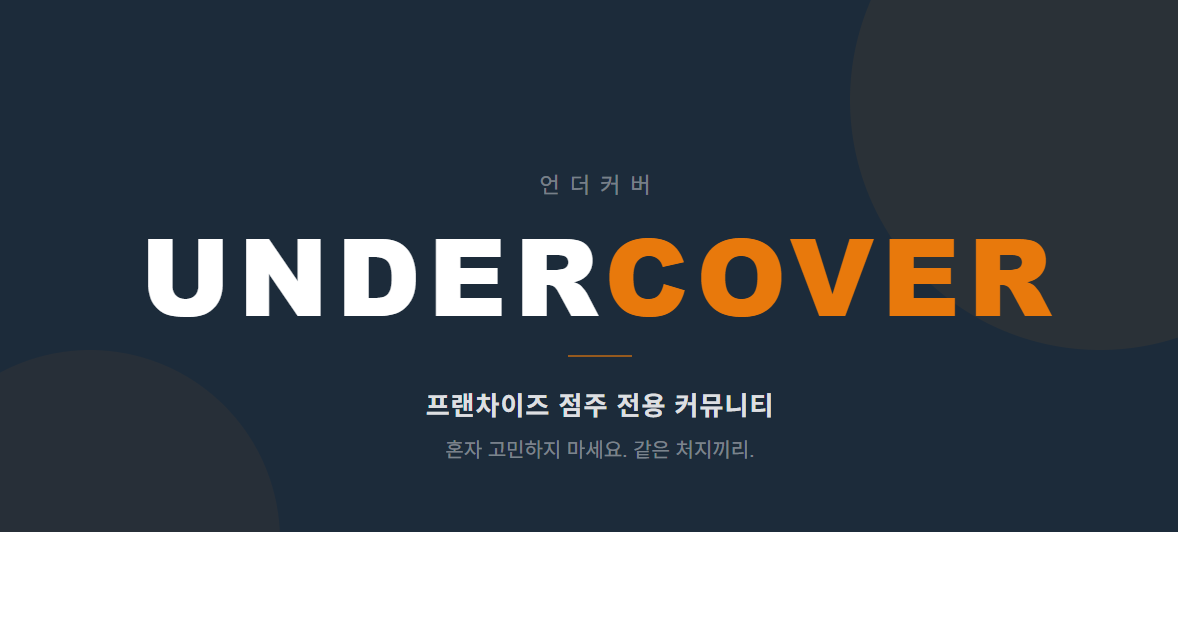
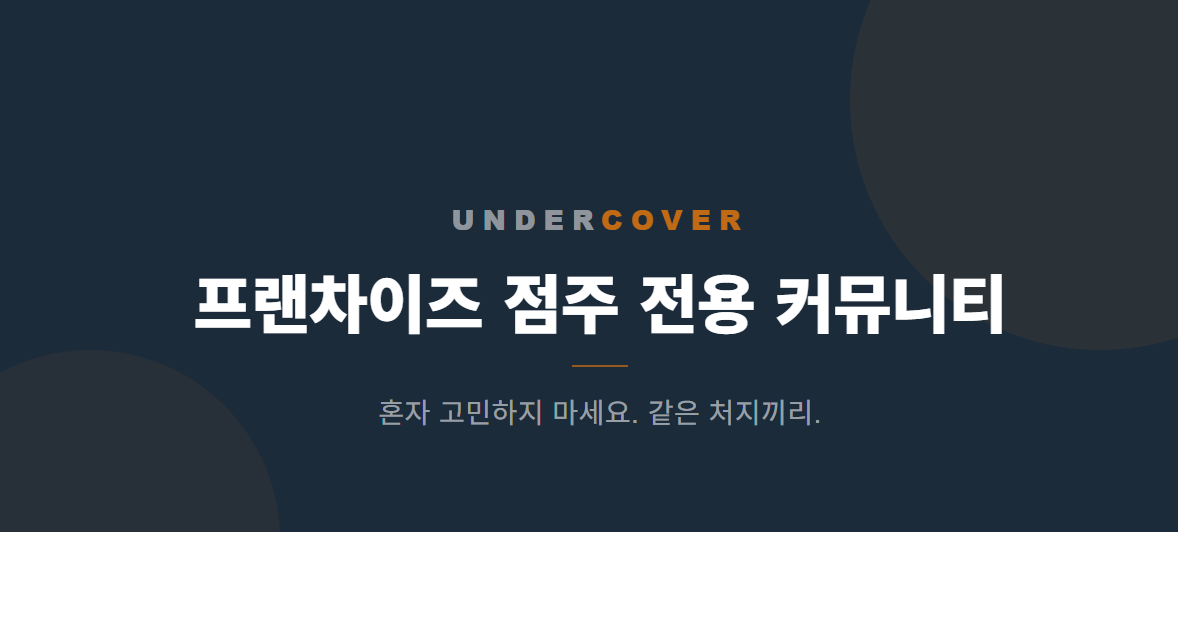
OG 이미지 레이아웃 수정 및 설명 문구 업데이트

Changed region(s): [[0.1233, 0.3317, 0.8942, 0.5429], [0.3083, 0.5429, 0.6783, 0.7238], [0.4317, 0.2714, 0.555, 0.3016]]

diff --git a/index.html b/index.html
@@ -4,9 +4,9 @@
 <meta charset="UTF-8">
 <meta name="viewport" content="width=device-width, initial-scale=1.0">
 <title>언더커버 (undercover) - 프랜차이즈 점주 전용 커뮤니티</title>
-<meta name="description" content="내 매장 수익을 브랜드 평균과 비교하고, 같은 브랜드 점주들과 솔직한 정보를 나눠보세요. 프랜차이즈 점주 전용 수익 분석 & 커뮤니티 플랫폼.">
+<meta name="description" content="같은 브랜드 점주끼리 솔직하게 소통하는 프랜차이즈 점주 전용 커뮤니티. 혼자 고민하지 마세요. 같은 처지끼리.">
 <meta property="og:title" content="언더커버 (undercover) - 프랜차이즈 점주 전용 커뮤니티">
-<meta property="og:description" content="내 매장 수익을 브랜드 평균과 비교하고, 같은 브랜드 점주들과 솔직한 정보를 나눠보세요.">
+<meta property="og:description" content="같은 브랜드 점주끼리 솔직하게 소통하는 공간. 혼자 고민하지 마세요. 같은 처지끼리.">
 <meta property="og:type" content="website">
 <meta property="og:url" content="https://undercov.kr">
 <meta property="og:image" content="https://undercov.kr/og-image.png">
